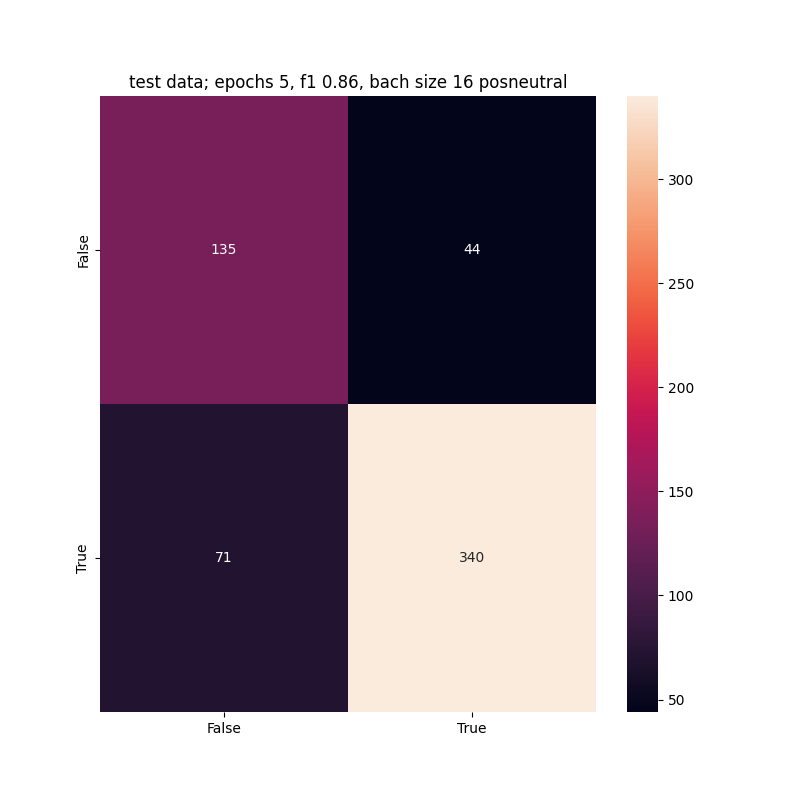
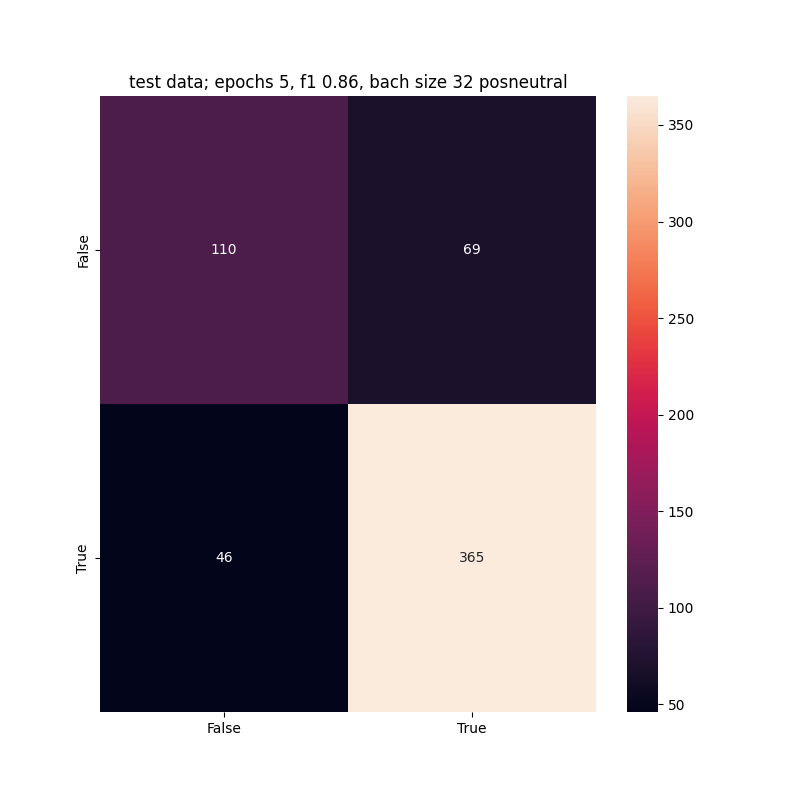
end of day

diff --git a/NorBert_utls/roberta_solar_sentiment.py b/NorBert_utls/roberta_solar_sentiment.py
@@ -78,7 +78,7 @@ else:
 
 def roberta_sentiment(lr = 1e-5, batch_size = 16, epochs = 10, plot = False, predict = False):
     #infile = 'annotaion_5000_01label_comb_negneutral_0neg_1pos_iwl'
-    infile = 'annotaion_5800_01label_comb_negneutral_0neg_1pos_600iwl'
+    infile = 'annotaion_5800_01label_comb_posneutral_0neg_1pos_600iwl'
     df = pd.read_csv('~/wind_power_analysis/data/'+infile+'.csv', 
                      sep=',', usecols=['text', 'label'], index_col=None)
 
@@ -223,7 +223,7 @@ def roberta_sentiment(lr = 1e-5, batch_size = 16, epochs = 10, plot = False, pre
     # I believe the 'W' stands for 'Weight Decay fix"
     optimizer = AdamW(model.parameters(),
                       lr = lr, # args.learning_rate - default is 5e-5, our notebook had 2e-5
-                      eps = 1e-8 # args.adam_epsilon  - default is 1e-8.
+                      eps = 1e-9 # args.adam_epsilon  - default is 1e-8.
                     )
 
     # Total number of training steps is [number of batches] x [number of epochs].
@@ -667,5 +667,5 @@ def gridsearch():
 if __name__ == '__main__':
         
 
-    roberta_sentiment(lr = 1e-5, batch_size = 32, epochs = 13, plot=True, predict = False)
+    roberta_sentiment(lr = 1e-5, batch_size = 32, epochs = 10, plot=True, predict = False)
 
